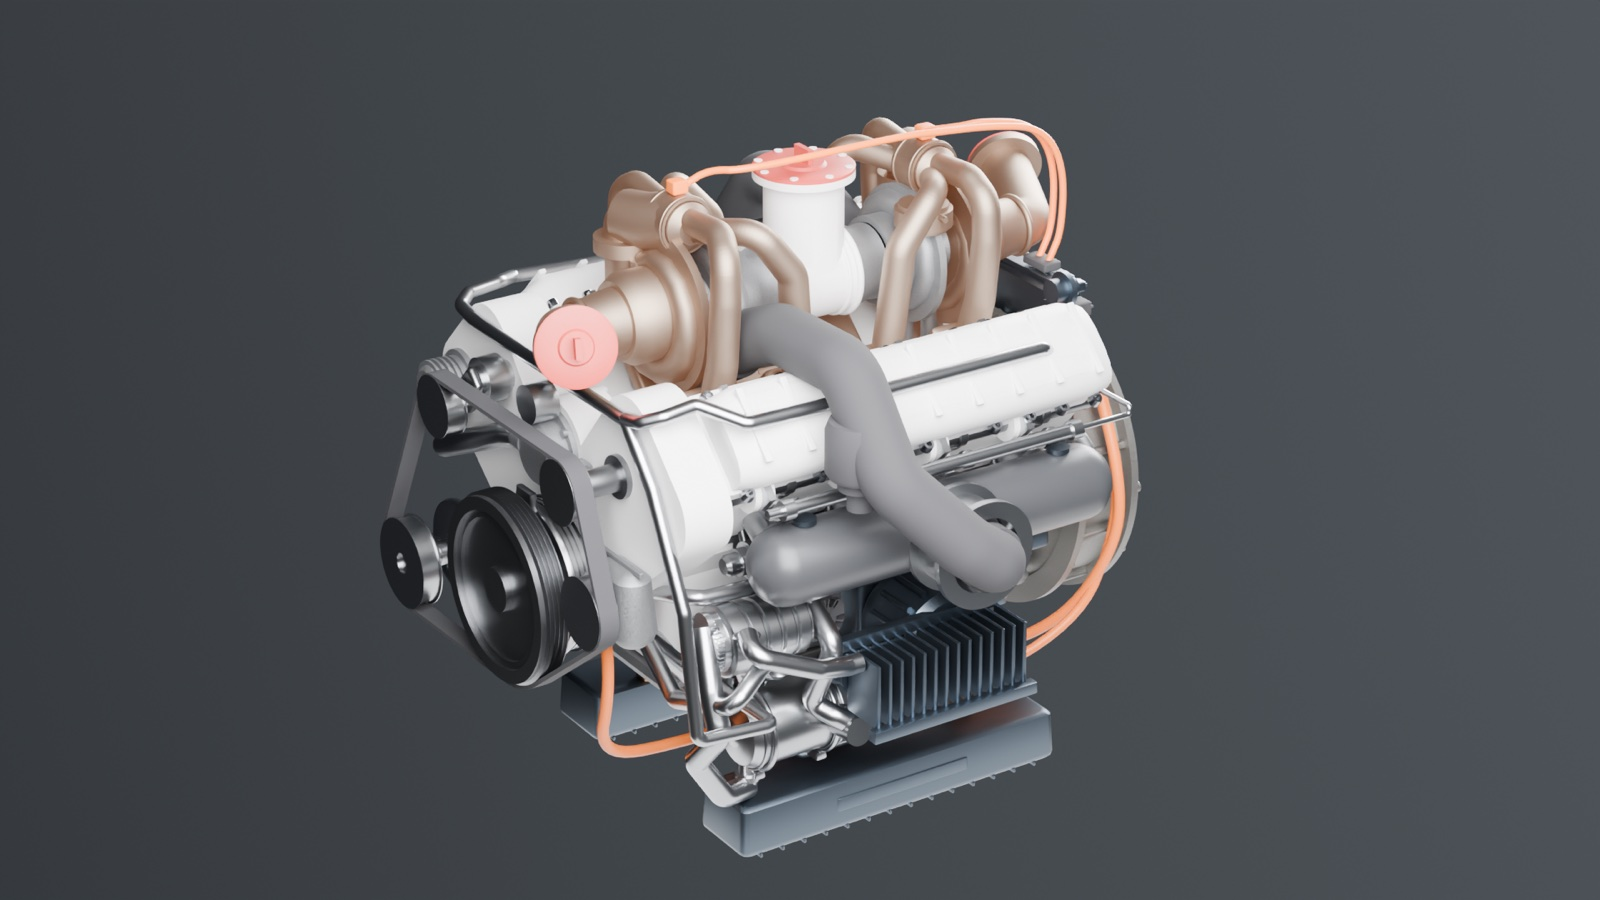
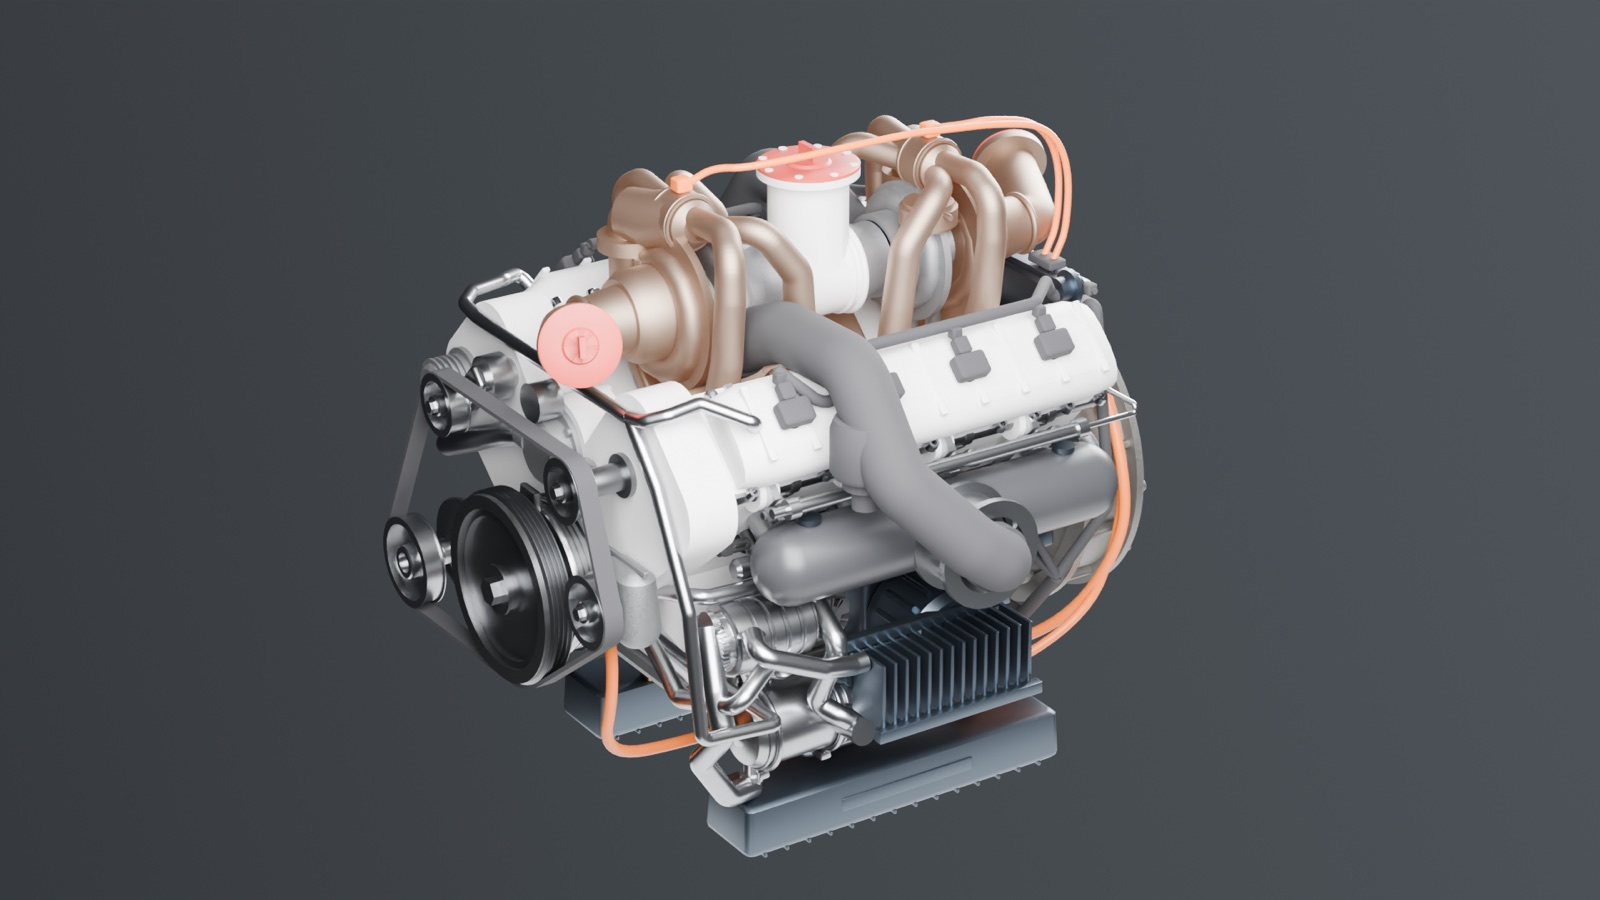
V8: harness, injectors, pulleys and crank bolt; VX-1: body blisters over the V8's ancillaries

diff --git a/index.html b/index.html
@@ -200,7 +200,7 @@
             <dt>Sustained turn</dt><dd>25.5 °/s at 5.3 g</dd>
             <dt>Thrust to weight</dt><dd>1.57 at combat weight</dd>
             <dt>Length × span</dt><dd>14.9 × 13.2 m</dd>
-            <dt>Parts</dt><dd>311 named objects</dd>
+            <dt>Parts</dt><dd>316 named objects</dd>
             <dt>Checks</dt><dd>30 passing</dd>
           </dl>
           <div class="links">
@@ -231,7 +231,7 @@
             <dt>Combined output</dt><dd>1,254 hp</dd>
             <dt>Redline</dt><dd>16,000 rpm</dd>
             <dt>Mass</dt><dd>146 kg</dd>
-            <dt>Parts</dt><dd>473 named objects</dd>
+            <dt>Parts</dt><dd>474 named objects</dd>
             <dt>Checks</dt><dd>40 passing</dd>
           </dl>
           <div class="links">
@@ -258,7 +258,7 @@
             <dt>Fan downforce</dt><dd>650 kg, near speed-independent</dd>
             <dt>Grip at 80 km/h</dt><dd>3.34 g vs F1's 2.03</dd>
             <dt>Lap</dt><dd>10.7 s faster than F1</dd>
-            <dt>Parts</dt><dd>265 named assemblies</dd>
+            <dt>Parts</dt><dd>266 named assemblies</dd>
             <dt>Checks</dt><dd>45 passing</dd>
           </dl>
           <div class="links">
